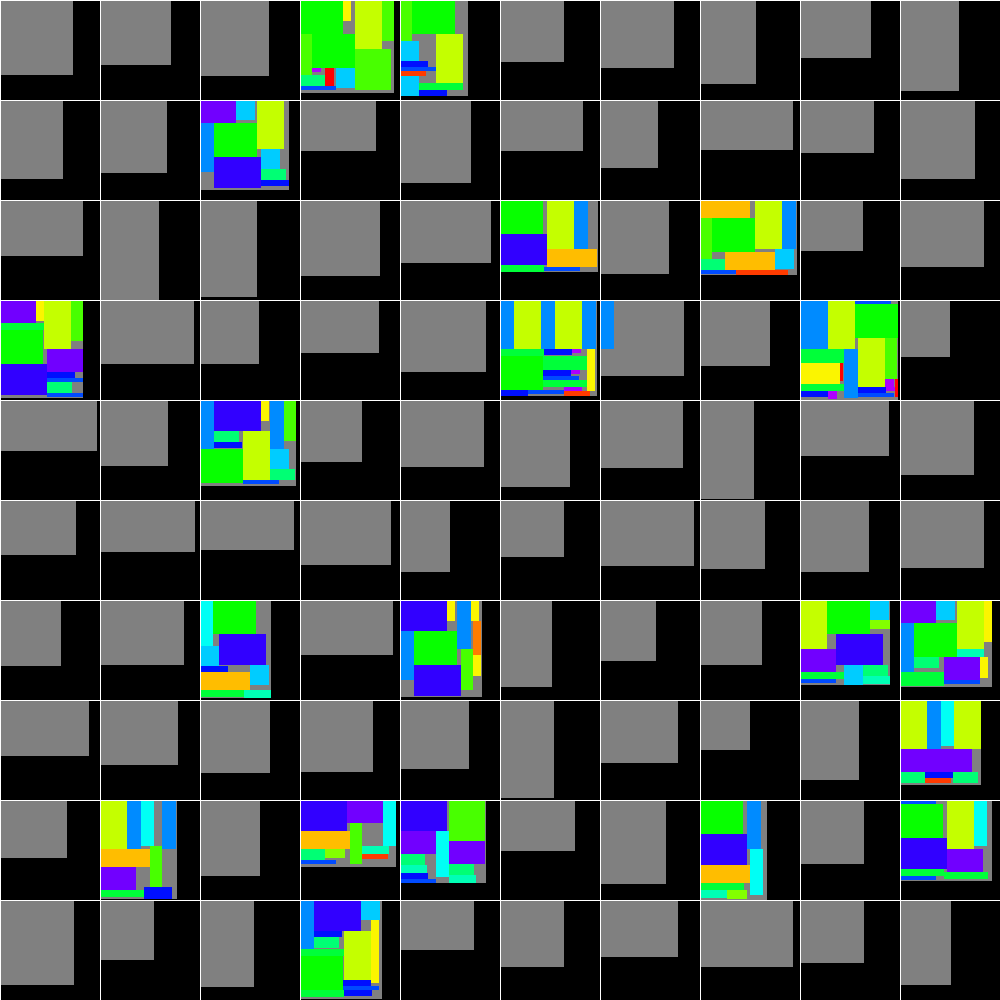
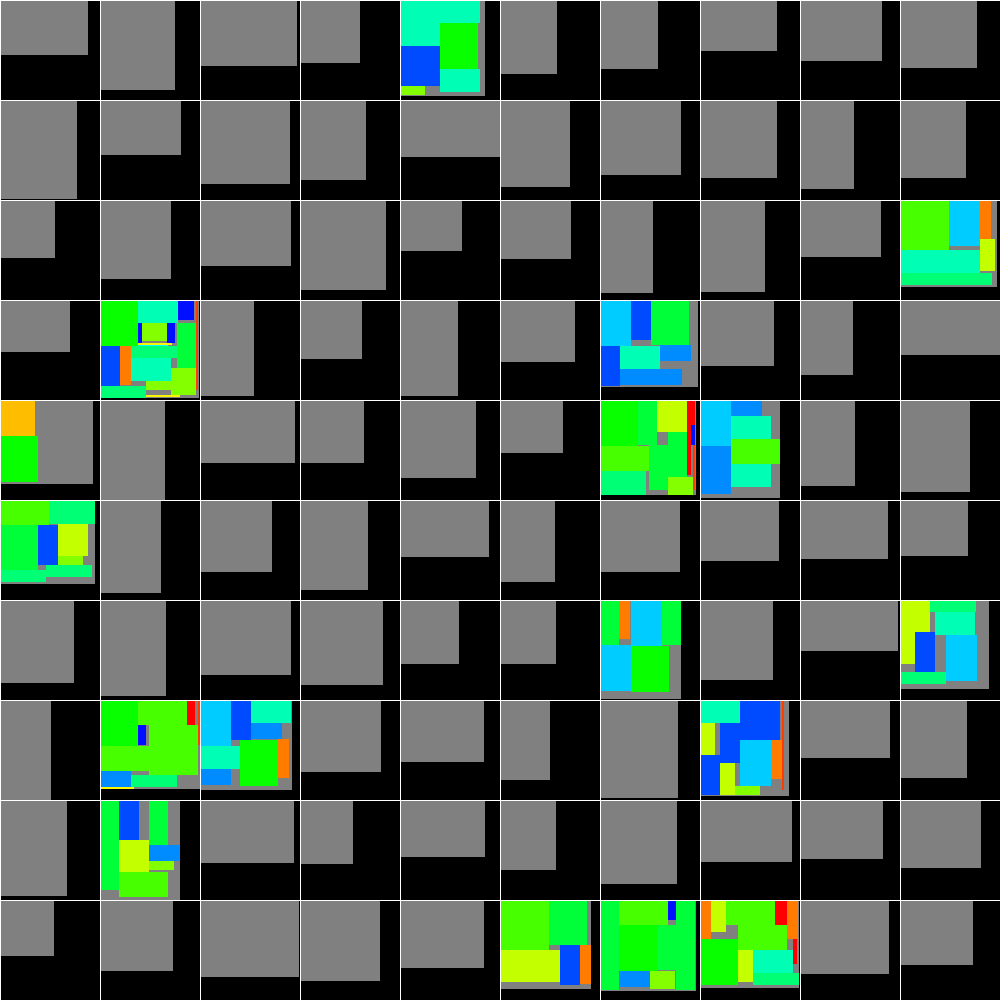
policy

diff --git a/student_submissions/s2210xxx/policy2210xxx.py b/student_submissions/s2210xxx/policy2210xxx.py
@@ -41,9 +41,9 @@ class LP(Policy):
         # Construct the policy here
         if self.create:
             self.sorted_stocks = sorted(enumerate(observation["stocks"]), key=lambda x: self._get_stock_size_(x[1])[0] * self._get_stock_size_(x[1])[1], reverse=True)
-            self.sorted_prods = sorted(enumerate(observation["products"]), key=lambda x: x[1]["size"][0] * x[1]["size"][1], reverse=True)
+            self.sorted_prods = sorted(observation["products"], key=lambda x: x["size"][0] * x["size"][1], reverse=True)
             self.num_products = len(self.sorted_prods)   
-            self.prod_area = sum([prod[1]["size"][0] * prod[1]["size"][1] * prod[1]["quantity"] for prod in self.sorted_prods])
+            self.prod_area = sum([prod["size"][0] * prod["size"][1] * prod["quantity"] for prod in self.sorted_prods])
             for i in range(self.num_products):
                 counts = np.zeros(self.num_products, dtype=int)
                 counts[i] = 1
@@ -51,7 +51,7 @@ class LP(Policy):
                 self.current_patterns.append(pattern)
             self.create = False
         
-        demands_vector = np.array([prod[1]["quantity"] for prod in self.sorted_prods])
+        demands_vector = np.array([prod["quantity"] for prod in self.sorted_prods])
         self._solve_master_problem(demands_vector)
         x = self.master_solution
         pattern_idx = np.argmax(x)
@@ -63,7 +63,7 @@ class LP(Policy):
                 count = selected_pattern[i]
                 if count == 0:
                     continue
-                product = self.sorted_prods[i][1]
+                product = self.sorted_prods[i]
                 prod_w, prod_h = product["size"]
                 for x_pos in range(stock_w - prod_w + 1):
                     for y_pos in range(stock_h - prod_h + 1):
@@ -92,11 +92,11 @@ class mygreed(Policy):
     def get_action(self, observation, info):
         if self.create:
             self.sorted_stocks = sorted(enumerate(observation["stocks"]), key=lambda x: self._get_stock_size_(x[1])[0] * self._get_stock_size_(x[1])[1], reverse=True)
-            self.sorted_prods = sorted(enumerate(observation["products"]), key=lambda x: x[1]["size"][0] * x[1]["size"][1], reverse=True)
-            self.prod_area = sum([prod["size"][0] * prod["size"][1] * prod["quantity"] for prod in observation["products"]])
+            self.sorted_prods = sorted(observation["products"], key=lambda x: x["size"][0] * x["size"][1], reverse=True)
+            self.prod_area = sum([prod["size"][0] * prod["size"][1] * prod["quantity"] for prod in self.sorted_prods])
             self.create = False
         # Pick a product that has quality > 0
-        for _,prod in self.sorted_prods:
+        for prod in self.sorted_prods:
             if prod["quantity"] > 0:
                 prod_size = prod["size"]
 
@@ -129,7 +129,7 @@ class oneLP(Policy):
     def __init__(self):
         self.create = True
         self.current_patterns = []  # List of patterns
-        self.demands = None  # Current demands (list of products)
+        self.sorted_prods = None  # Current demands (list of products)
         self.sorted_stocks = None  # Sorted stocks by size
         self.num_products = 0
         self.master_solution = None  # Solution from master problem
@@ -159,18 +159,18 @@ class oneLP(Policy):
             raise ValueError("Cannot solve master problem.")
 
     def get_action(self, observation, info):
-        self.demands = observation["products"]
+        self.sorted_prods = observation["products"]
         # Construct the policy here
         if self.create:
-            self.prod_area = sum([prod["size"][0] * prod["size"][1] * prod["quantity"] for prod in self.demands])
-            self.num_products = len(self.demands)
+            self.prod_area = sum([prod["size"][0] * prod["size"][1] * prod["quantity"] for prod in self.sorted_prods])
+            self.num_products = len(self.sorted_prods)
             self.sorted_stocks = sorted(enumerate(observation["stocks"]), key=lambda x: self._get_stock_size_(x[1])[0] * self._get_stock_size_(x[1])[1], reverse=True)   
             for i in range(self.num_products):
                 counts = np.zeros(self.num_products, dtype=int)
                 counts[i] = 1
                 pattern = {"counts": counts,"sol": 0}  # Empty placements for now
                 self.current_patterns.append(pattern)
-            demands_vector = np.array([prod["quantity"] for prod in self.demands])
+            demands_vector = np.array([prod["quantity"] for prod in self.sorted_prods])
             self._solve_master_problem(demands_vector)
             x = self.master_solution
             for i in range(self.num_products):
@@ -195,7 +195,7 @@ class oneLP(Policy):
                 count = selected_pattern[i]
                 if count == 0:
                     continue
-                product = self.demands[i]
+                product = self.sorted_prods[i]
                 prod_w, prod_h = product["size"]
                 for x_pos in range(stock_w - prod_w + 1):
                     for y_pos in range(stock_h - prod_h + 1):
@@ -208,7 +208,7 @@ class myColumn(Policy):
         self.create = True
         self.current_patterns = []  # List of patterns
         self.selected_pattern = None
-        self.demands = None  # Current demands (list of products)
+        self.sorted_prods = None  # Current demands (list of products)
         self.sorted_stocks = None  # Sorted stocks by size
         self.num_products = 0
         self.dual_values = None  # Dual values from master problem
@@ -243,7 +243,7 @@ class myColumn(Policy):
 
     def create_intial_pattern(self):
         for i in range(self.num_products):
-            if self.demands[i]["quantity"] == 0:
+            if self.sorted_prods[i]["quantity"] == 0:
                 continue
             counts = np.zeros(self.num_products, dtype=int)
             counts[i] = 1
@@ -257,8 +257,8 @@ class myColumn(Policy):
         cvec *= -1
         A_ub = np.zeros((1, self.num_products))
         b_ub = [self.current_stock_size[0]*self.current_stock_size[1]]
-        bounds = [(0, prod["quantity"]) for prod in self.demands]
-        A_ub[0, :] = [prod["size"][0] * prod["size"][1]for prod in self.demands]
+        bounds = [(0, prod["quantity"]) for prod in self.sorted_prods]
+        A_ub[0, :] = [prod["size"][0] * prod["size"][1]for prod in self.sorted_prods]
         result = linprog(cvec, A_ub=A_ub, b_ub=b_ub, method="highs", bounds=bounds,integrality=True)
         self.current_patterns.append(np.int64(result["x"]))
 
@@ -269,7 +269,7 @@ class myColumn(Policy):
             stock_w, stock_h = self._get_stock_size_(stock)
             if(self.idx != -1 and self.selected_pattern[self.idx] != 0):
                 stock_w, stock_h = self._get_stock_size_(stock)
-                prod_w, prod_h = self.demands[self.idx]["size"]
+                prod_w, prod_h = self.sorted_prods[self.idx]["size"]
                 for x_pos in range(stock_w - prod_w + 1):
                     for y_pos in range(stock_h - prod_h + 1):
                         if self._can_place_(stock, (x_pos, y_pos), (prod_w, prod_h)):
@@ -285,10 +285,10 @@ class myColumn(Policy):
                             return {"stock_idx": stock_idx, "size": [prod_w, prod_h], "position": (x_pos, y_pos)}
             for i in range(self.num_products):
                 count = self.selected_pattern[i]
-                if count == 0 or self.demands[i]["quantity"] == 0:
+                if count == 0 or self.sorted_prods[i]["quantity"] == 0:
                     continue
                 self.idx = i
-                product = self.demands[i]
+                product = self.sorted_prods[i]
                 prod_w, prod_h = product["size"]
                 for x_pos in range(stock_w - prod_w + 1):
                     for y_pos in range(stock_h - prod_h + 1):
@@ -311,19 +311,20 @@ class myColumn(Policy):
             self.current_patterns = []
         if(self.selected_pattern is not None):
             return self.return_action()
-        self.demands = observation["products"]
+        self.sorted_prods = observation["products"]
         # Construct the policy here
         if self.create:
-            self.prod_area = sum([prod["size"][0] * prod["size"][1] * prod["quantity"] for prod in self.demands])
-            self.num_products = len(self.demands)
             self.sorted_stocks = sorted(enumerate(observation["stocks"]), key=lambda x: self._get_stock_size_(x[1])[0] * self._get_stock_size_(x[1])[1], reverse=True)
+            self.sorted_prods = sorted(observation["products"], key=lambda x: x["size"][0] * x["size"][1], reverse=True)
+            self.num_products = len(self.sorted_prods)   
+            self.prod_area = sum([prod["size"][0] * prod["size"][1] * prod["quantity"] for prod in self.sorted_prods])
             self.create = False
         
         if self.selected_pattern == None:
             self.stock_idx = 0
             self.current_stock_size = self._get_stock_size_(self.sorted_stocks[99][1])
             self.create_intial_pattern()
-            demands_vector = np.array([prod["quantity"] for prod in self.demands])
+            demands_vector = np.array([prod["quantity"] for prod in self.sorted_prods])
             for i in range(100):
                 self._solve_master_problem(demands_vector)
                 self.create_pattern(self.dual_values)

diff --git a/main.py b/main.py
@@ -19,7 +19,7 @@ if env.render_mode == "human":
     pygame.display.set_mode((600, 600), pygame.RESIZABLE)
 if __name__ == "__main__":
     # Reset the environment
-    seed = 13620052
+    seed = 1391764
     np.random.seed(seed)
     observation, info = env.reset(seed=seed)
     np.random.seed(seed)
@@ -40,7 +40,7 @@ if __name__ == "__main__":
     while True:
         action = policy2210xxx.get_action(observation, info) # Get the action from the policy
         observation, reward, terminated, truncated, info = env.step(action) # Take the action
-        print(f"Action: {action}") # Print the action taken by the policy
+        # print(f"Action: {action}") # Print the action taken by the policy
         # print(info) # Print the how much stock get used after taking the action
         # # Print the products and their remaining quantity after each action
         # for product in observation["products"]:
